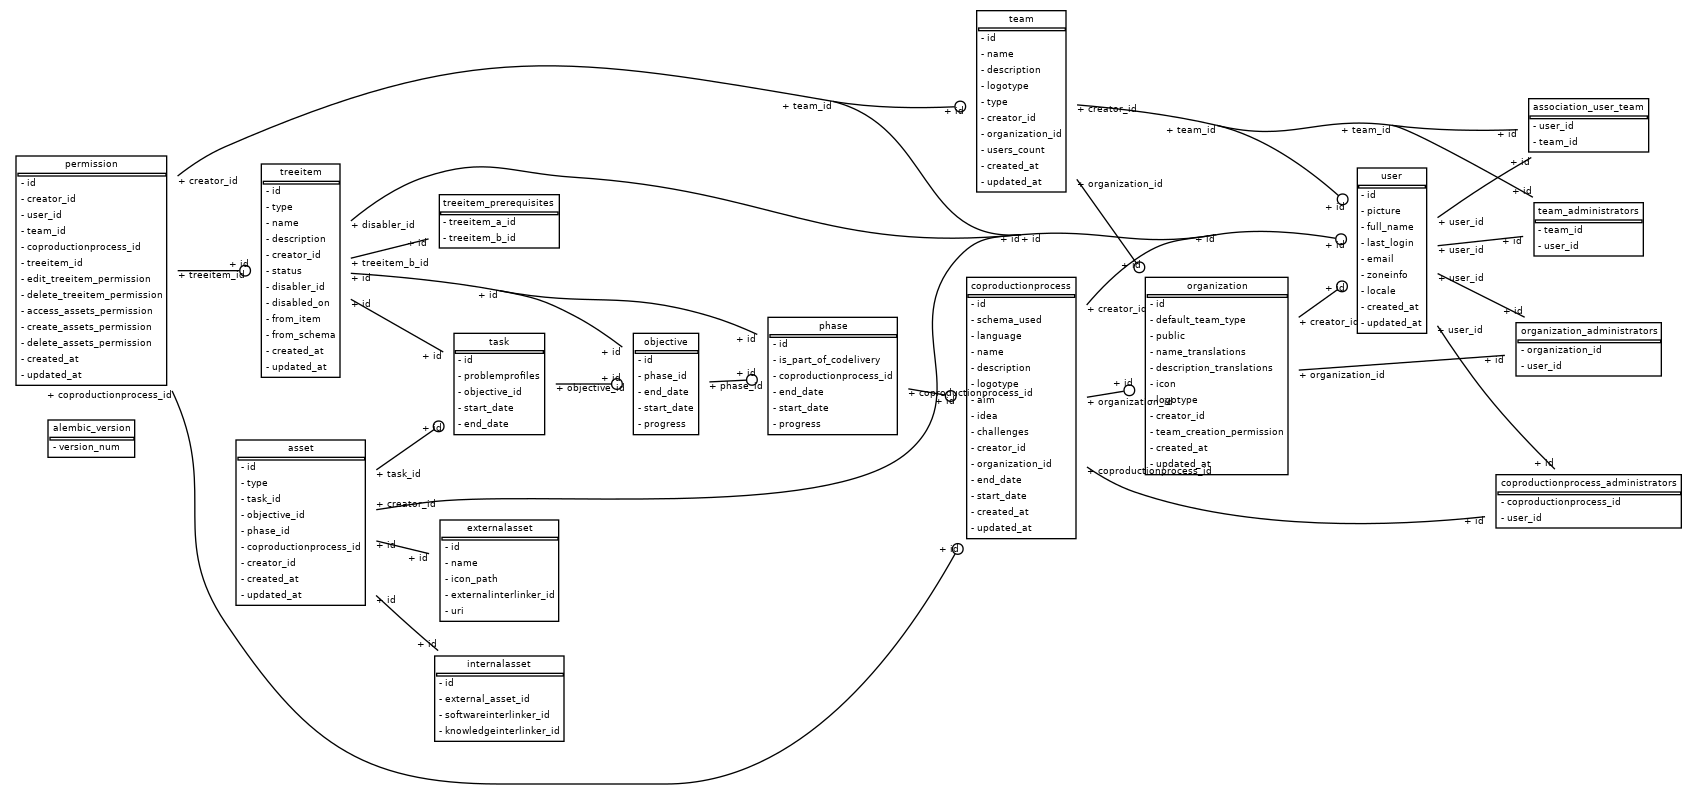
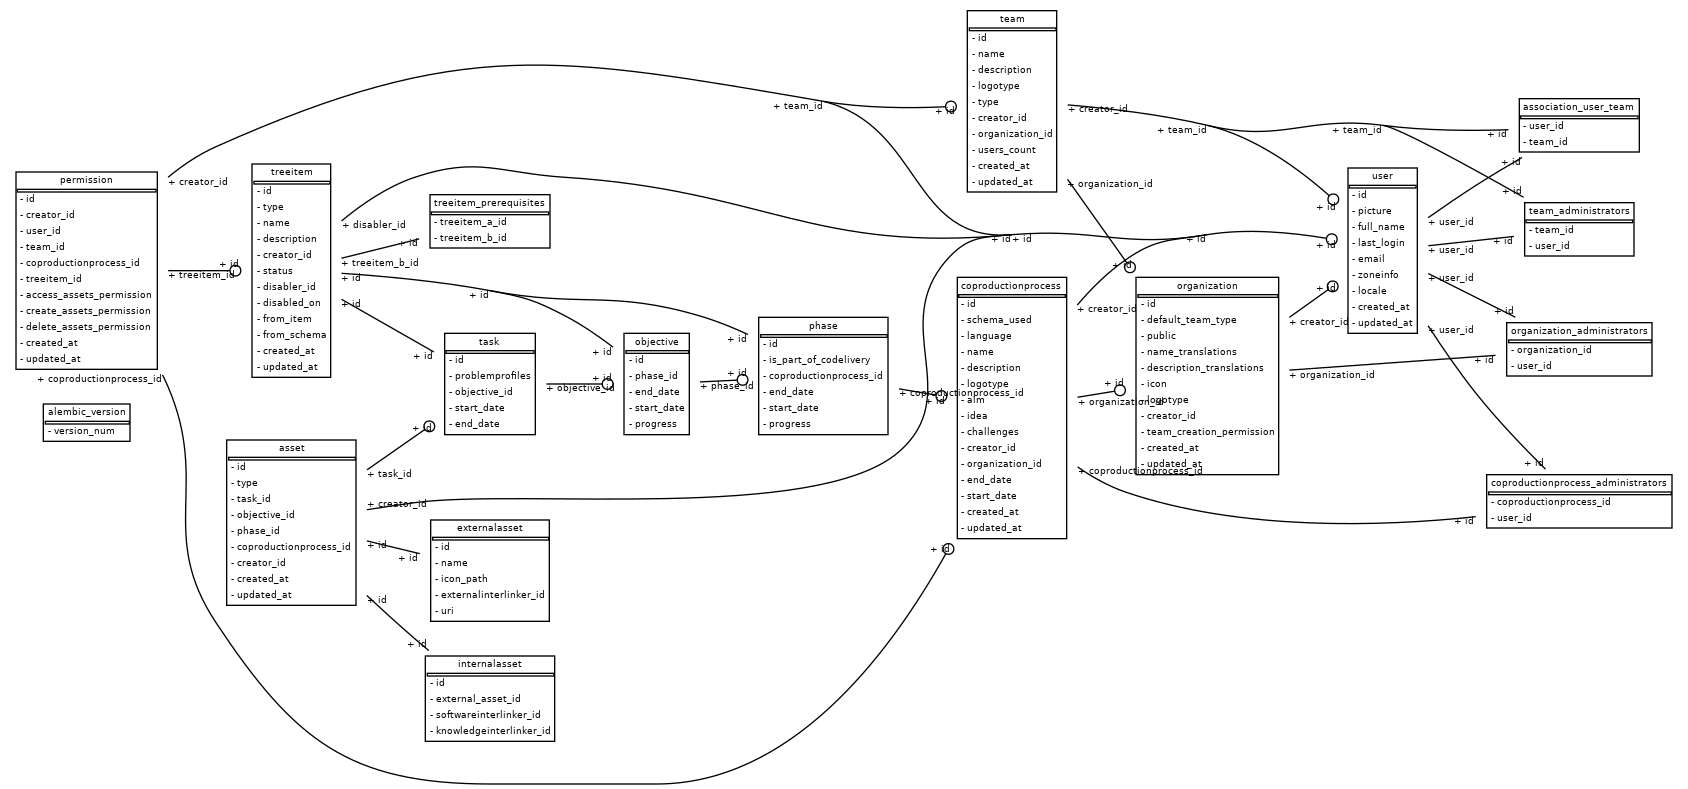
Access assets permission

diff --git a/coproduction/app/permissions/crud.py b/coproduction/app/permissions/crud.py
@@ -65,8 +65,10 @@ class CRUDPermission(CRUDBase[Permission, schemas.PermissionCreate, schemas.Perm
 
         index_delete = 0
         index_create = 0
+        index_access = 0
         delete_assets_permission = False
         create_assets_permission = False
+        access_assets_permission = False
         
         path = treeitem.path_ids
         
@@ -85,9 +87,15 @@ class CRUDPermission(CRUDBase[Permission, schemas.PermissionCreate, schemas.Perm
                 index_create = index
             elif index == index_create and not create_assets_permission and permission.create_assets_permission:
                 create_assets_permission = True
+            
+            if index > index_access:
+                access_assets_permission = permission.access_assets_permission
+                index_access = index
+            elif index == index_access and not access_assets_permission and permission.access_assets_permission:
+                access_assets_permission = True
 
         final_permissions_dict = copy.deepcopy(DENY_ALL)
-        final_permissions_dict["access_assets_permission"] = len(permissions) > 0
+        final_permissions_dict["access_assets_permission"] = access_assets_permission
         final_permissions_dict["delete_assets_permission"] = delete_assets_permission
         final_permissions_dict["create_assets_permission"] = create_assets_permission
         return final_permissions_dict

diff --git a/coproduction/app/treeitems/models.py b/coproduction/app/treeitems/models.py
@@ -7,7 +7,8 @@ from sqlalchemy.ext.associationproxy import association_proxy
 from sqlalchemy.orm import Session, relationship
 
 from app.general.db.base_class import Base as BaseModel
-from app.permissions.models import Permission, GRANT_ALL, DENY_ALL, PERMS
+from app.permissions.models import Permission
+from app.teams.models import Team
 from app.utils import cached_hybrid_property, Status
 
 prerequisites = Table(
@@ -68,8 +69,20 @@ class TreeItem(BaseModel):
         return db.query(
             Permission
         ).filter(
+            Permission.coproductionprocess_id == self.coproductionprocess.id,
             Permission.treeitem_id.in_(self.path_ids)
         ).all()
+    
+    # @cached_hybrid_property
+    # def permissions(self):
+    #     db = Session.object_session(self)
+    #     # Get permissions of the treeitem for user (and teams he or she belongs to)...
+    #     return db.query(
+    #         Team
+    #     ).filter(
+    #         Team.p == self.coproductionprocess.id,
+    #         Permission.treeitem_id.in_(self.path_ids)
+    #     ).all()
 
     @cached_hybrid_property
     def user_roles(self):

diff --git a/coproduction/app/api/api_v1/permissions.py b/coproduction/app/api/api_v1/permissions.py
@@ -26,6 +26,7 @@ async def create_permission(
     if permission_in.treeitem_id:
         treeitem : models.TreeItem
         if treeitem := await crud.treeitem.get(db=db, id=permission_in.treeitem_id):
+            # check if the user can update the coproduction process
             if crud.coproductionprocess.can_update(user=current_user, object=treeitem.coproductionprocess):
                 permission_in.coproductionprocess_id = treeitem.coproductionprocess.id
                 return await crud.permission.create(db=db, obj_in=permission_in, creator=current_user)
@@ -34,6 +35,7 @@ async def create_permission(
         raise HTTPException(status_code=404, detail="Tree Item not found")
     else:
         if coproductionprocess := await crud.coproductionprocess.get(db=db, id=permission_in.coproductionprocess_id):
+            # check if the user can update the coproduction process
             if crud.coproductionprocess.can_update(user=current_user, object=coproductionprocess):
                 return await crud.permission.create(db=db, obj_in=permission_in, creator=current_user)
             raise HTTPException(

diff --git a/coproduction/app/permissions/models.py b/coproduction/app/permissions/models.py
@@ -31,6 +31,7 @@ class Permission(BaseModel):
     treeitem = relationship('TreeItem', foreign_keys=[treeitem_id], backref=backref('_permissions', passive_deletes=True))
 
     # to
+    access_assets_permission = Column(Boolean, default=False)
     create_assets_permission = Column(Boolean, default=False)
     delete_assets_permission = Column(Boolean, default=False)
     # IMPORTANT TO HAVE "_permission" STRING IN FIELD NAME for the classmethod
@@ -39,10 +40,10 @@ class Permission(BaseModel):
         return "<Permission>"
 
 # DO NOT REMOVE
-GRANT_ALL = {'access_assets_permission': True}
-DENY_ALL = {'access_assets_permission': False}
+GRANT_ALL = {}
+DENY_ALL = {}
 
-PERMS = [field for field in dir(Permission) if "_permission" in field] + ['access_assets_permission']
+PERMS = [field for field in dir(Permission) if "_permission" in field]
 for perm in PERMS:
     GRANT_ALL[perm] = True
     DENY_ALL[perm] = False

diff --git a/coproduction/alembic/versions/ec75d7e272a5_treeitems.py b/coproduction/alembic/versions/ec75d7e272a5_treeitems.py
@@ -154,6 +154,7 @@ def upgrade():
     sa.Column('team_id', postgresql.UUID(as_uuid=True), nullable=True),
     sa.Column('coproductionprocess_id', postgresql.UUID(as_uuid=True), nullable=True),
     sa.Column('treeitem_id', postgresql.UUID(as_uuid=True), nullable=True),
+    sa.Column('access_assets_permission', sa.Boolean(), nullable=True),
     sa.Column('create_assets_permission', sa.Boolean(), nullable=True),
     sa.Column('delete_assets_permission', sa.Boolean(), nullable=True),
     sa.Column('created_at', sa.DateTime(), server_default=sa.text('now()'), nullable=True),

diff --git a/coproduction/app/permissions/schemas.py b/coproduction/app/permissions/schemas.py
@@ -5,6 +5,7 @@ from typing import Optional
 from pydantic import BaseModel, Extra
 
 class PermissionBase(BaseModel):
+    access_assets_permission: Optional[bool]
     create_assets_permission: Optional[bool]
     delete_assets_permission: Optional[bool]
 
